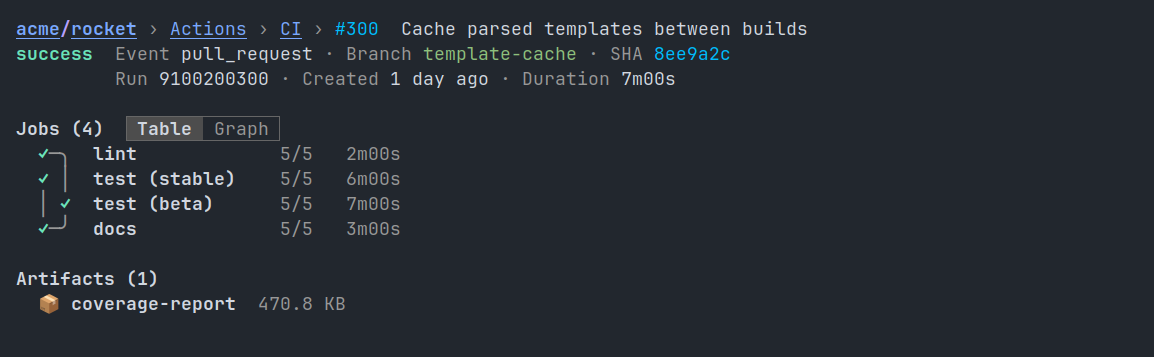
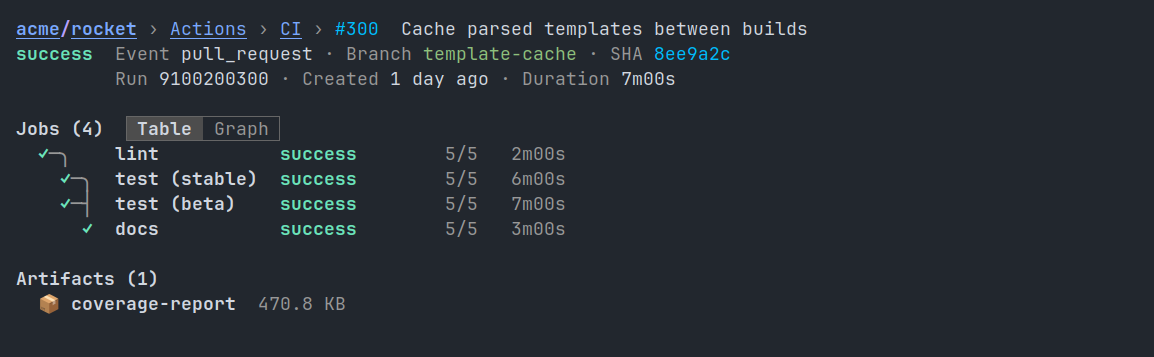
Show each job's status in a run's table, its lines flowing right
The status follows the job's name in a column of fixed width.  The
lines beside the table put each job in its stage's column, as
octocat-vui-stage-lanes lays them out, so they read left to right as
the Graph view does.

diff --git a/CHANGELOG.md b/CHANGELOG.md
@@ -4,6 +4,8 @@ All notable changes to this project will be documented in this file.
 The format is based on [Keep a Changelog](https://keepachangelog.com/en/1.0.0/).
 
 ## [Unreleased]
+* The lines beside a run's table of jobs flow right, a column per stage
+* A run page's table of jobs shows each job's status after its name
 * A job page lists its steps before their log has downloaded, a grey bar till then
 * The title pinned in the header line leads with the PR's, issue's or run's status
 * Changes to one PR or issue reach GitHub in order: a merge no longer beats its approval
